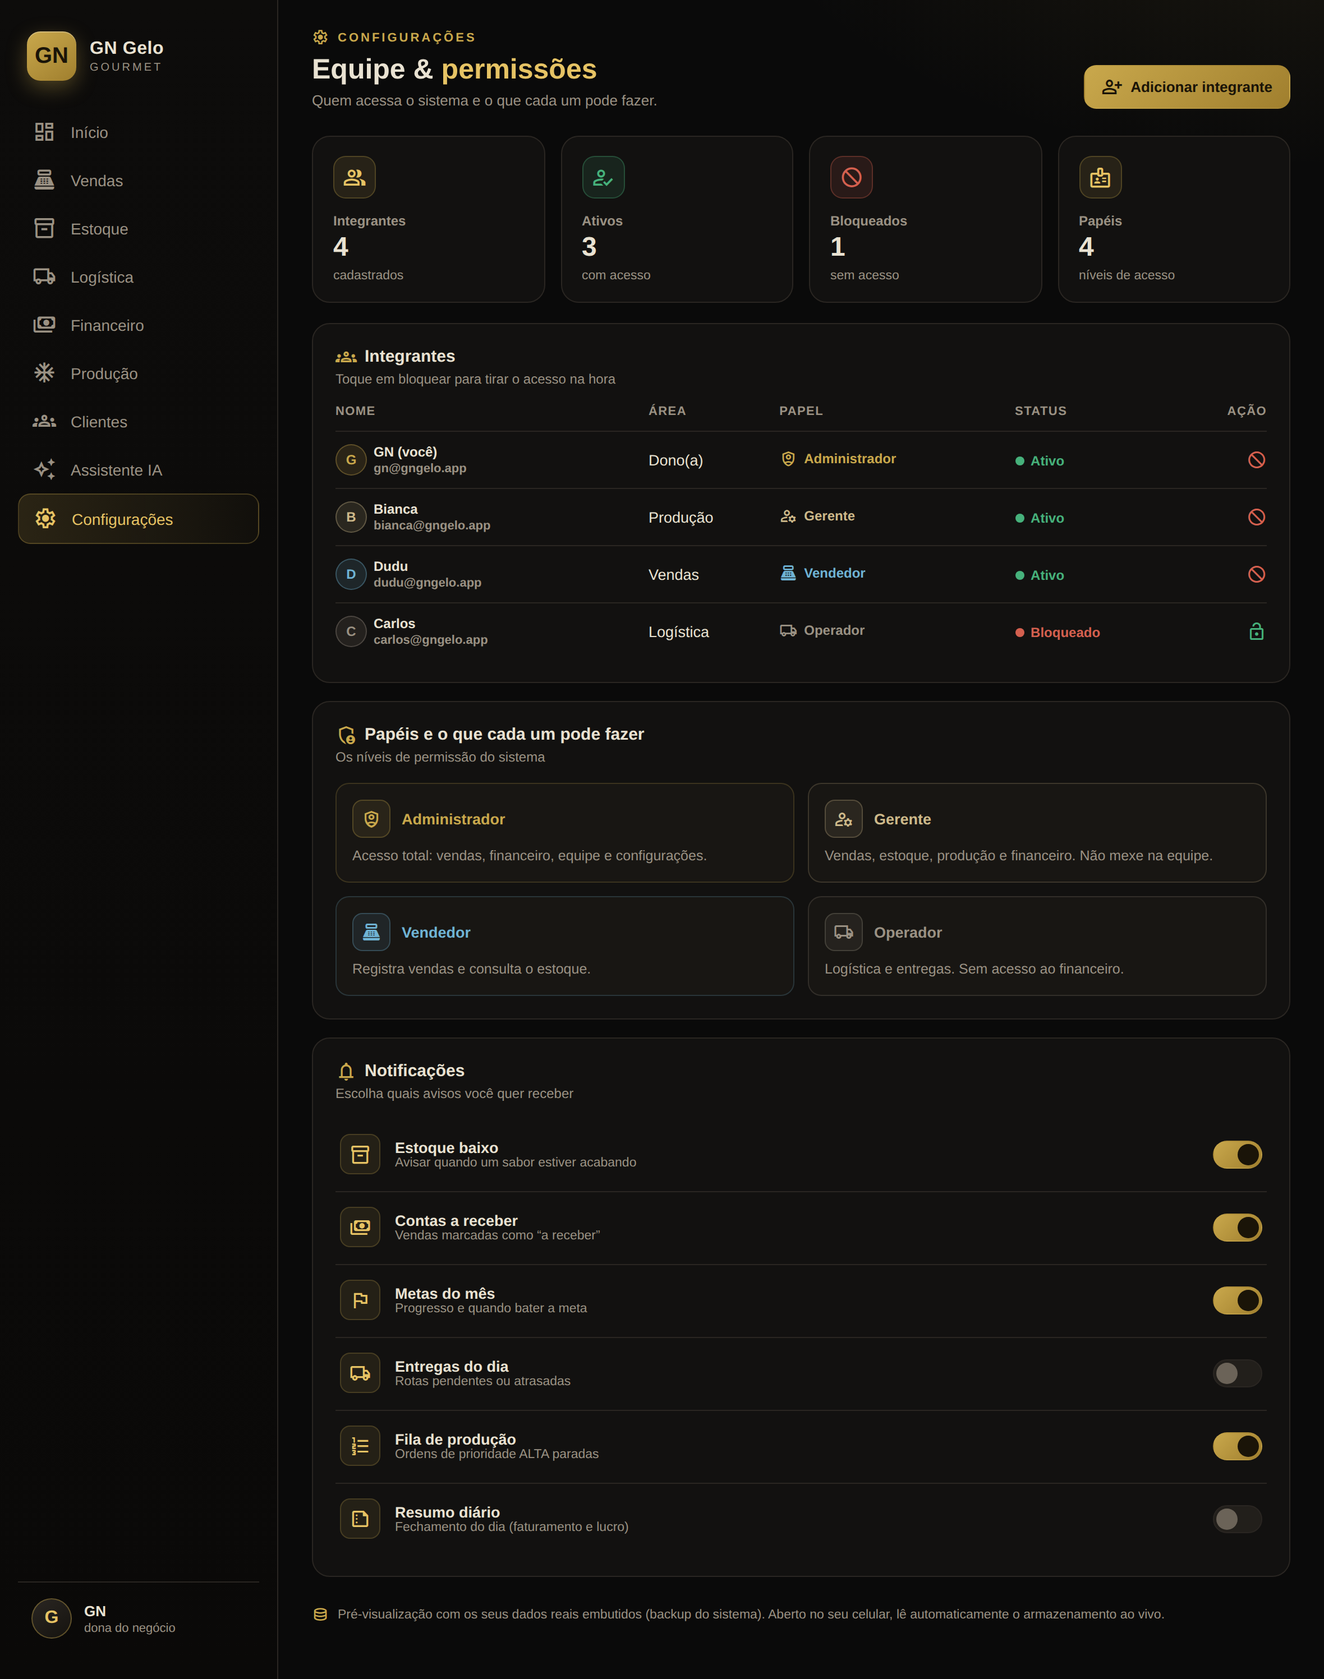
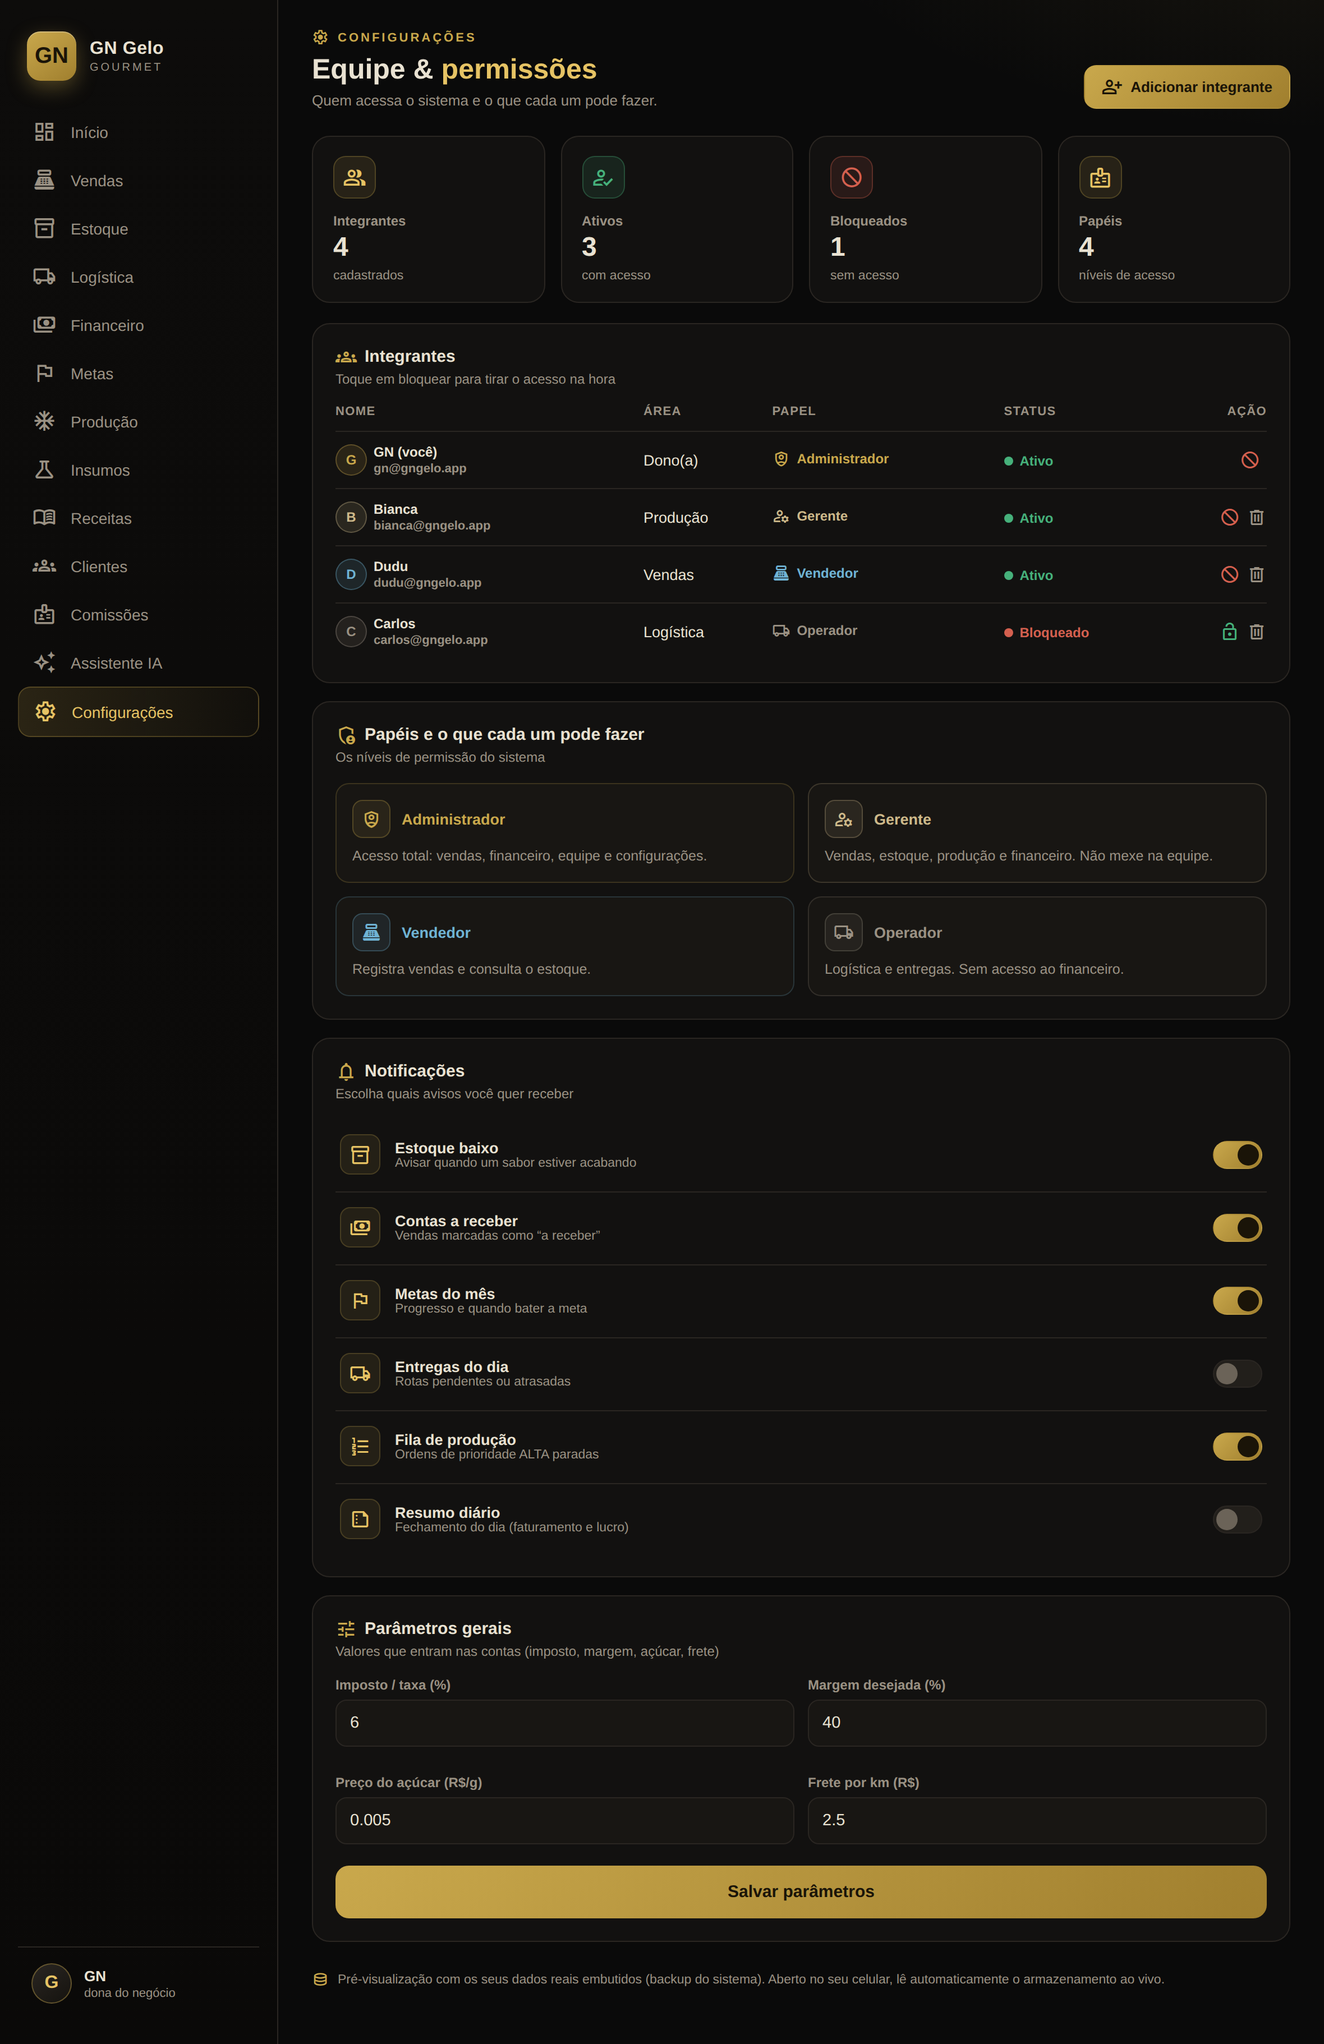
Bloco 1: custo real automatico + Parametros + Receitas
- Custo do gelo agora RECALCULA pelo preco dos insumos comprados + receita
  (nao mais fixo). Aplica em venda (cpv/lucro), producao, estoque (valor) e DRE.
- Tela Receitas: ingredientes por gelo editaveis + custo real ao vivo (quanto
  cada ingrediente pesa). Salva em gng_receitaPadrao.
- Parametros gerais (Configuracoes): imposto, margem, preco do acucar, frete/km.
  Salva em gng_params e entra nas contas na hora.
- Testado: mudar preco de insumo, acucar ou receita altera o custo em todo o app.
- Fonte regenerada (menu_book). HTML 132KB.

Claude-Session: https://claude.ai/code/session_01RocrFdSgqpqjfRy7x3VDmm

diff --git a/preview-dashboard-premium.html b/preview-dashboard-premium.html
@@ -10,7 +10,7 @@
 <!-- Mapa real (OpenStreetMap via Leaflet) — grátis. Precisa de internet; offline cai no mapa-reserva. -->
 <link rel="stylesheet" href="https://cdn.jsdelivr.net/npm/leaflet@1.9.4/dist/leaflet.css" />
 <script src="https://cdn.jsdelivr.net/npm/leaflet@1.9.4/dist/leaflet.js"></script>
[2 lines of base64/hex data omitted]
 <style>
   :root{
     --bg:#0A0A0A; --panel:#121110; --panel2:#181613; --line:#2a2622;
@@ -176,6 +176,7 @@
       <a data-view="metas"><span class="sym">flag</span> Metas</a>
       <a data-view="producao"><span class="sym">ac_unit</span> Produção</a>
       <a data-view="insumos"><span class="sym">science</span> Insumos</a>
+      <a data-view="receitas"><span class="sym">menu_book</span> Receitas</a>
       <a data-view="clientes"><span class="sym">groups</span> Clientes</a>
       <a data-view="comissoes"><span class="sym">badge</span> Comissões</a>
       <a data-view="ia"><span class="sym">auto_awesome</span> Assistente IA</a>
@@ -513,6 +514,36 @@
     </div>
    </div><!-- /view-comissoes -->
 
+   <!-- ============ TELA: RECEITAS ============ -->
+   <div class="view" id="view-receitas">
+    <div class="top">
+      <div>
+        <div class="eyebrow"><span class="sym" style="font-size:15px">menu_book</span> Receita</div>
+        <h1>Receita do gelo — custo <b id="rc-custo">—</b></h1>
+        <p>O quanto cada gelo consome. O custo recalcula sozinho pelo preço dos insumos.</p>
+      </div>
+    </div>
+    <div class="row2">
+      <div class="card">
+        <h3><span class="sym">science</span>Ingredientes por gelo saborizado</h3>
+        <div class="csub">Vale para todos os sabores (ajuste se mudar a receita)</div>
+        <div class="f-grid2" style="margin-top:10px">
+          <div class="f-row"><label>Base / Aroma (ml)</label><input type="number" step="0.1" class="f-in rc-in" id="rc-base" oninput="calcReceita()"></div>
+          <div class="f-row"><label>Glicose (g)</label><input type="number" step="0.1" class="f-in rc-in" id="rc-glicose" oninput="calcReceita()"></div>
+          <div class="f-row"><label>Açúcar (g)</label><input type="number" step="0.1" class="f-in rc-in" id="rc-acucar" oninput="calcReceita()"></div>
+          <div class="f-row"><label>Goma Xantana (g)</label><input type="number" step="0.01" class="f-in rc-in" id="rc-xantana" oninput="calcReceita()"></div>
+          <div class="f-row"><label>Embalagem (un)</label><input type="number" step="1" class="f-in rc-in" id="rc-embalagem" oninput="calcReceita()"></div>
+        </div>
+        <button class="btn-gold" style="margin-top:4px" onclick="salvarReceita()">Salvar receita</button>
+      </div>
+      <div class="card">
+        <h3><span class="sym">payments</span>Custo real (ao vivo)</h3>
+        <div class="csub">Quanto cada ingrediente pesa no custo</div>
+        <div id="rc-breakdown" style="margin-top:8px"></div>
+      </div>
+    </div>
+   </div><!-- /view-receitas -->
+
    <!-- ============ TELA: CLIENTES ============ -->
    <div class="view" id="view-clientes">
     <div class="top">
@@ -575,6 +606,17 @@
       <h3><span class="sym">notifications</span>Notificações</h3>
       <div class="csub">Escolha quais avisos você quer receber</div>
       <div id="cf-notif" style="display:flex;flex-direction:column;gap:2px;margin-top:4px"></div>
+    </div>
+    <div class="card" style="margin-top:16px">
+      <h3><span class="sym">tune</span>Parâmetros gerais</h3>
+      <div class="csub">Valores que entram nas contas (imposto, margem, açúcar, frete)</div>
+      <div class="f-grid2" style="margin-top:10px">
+        <div class="f-row"><label>Imposto / taxa (%)</label><input type="number" step="0.1" class="f-in" id="pa-imp"></div>
+        <div class="f-row"><label>Margem desejada (%)</label><input type="number" step="1" class="f-in" id="pa-marg"></div>
+        <div class="f-row"><label>Preço do açúcar (R$/g)</label><input type="number" step="0.001" class="f-in" id="pa-acucar"></div>
+        <div class="f-row"><label>Frete por km (R$)</label><input type="number" step="0.1" class="f-in" id="pa-fkm"></div>
+      </div>
+      <button class="btn-gold" style="margin-top:6px" onclick="salvarParams()">Salvar parâmetros</button>
     </div>
    </div><!-- /view-config -->
 
@@ -822,11 +864,20 @@ function getVendedores(){const v=get("vendedores",null);return (v&&v.length)?v:S
 function getOrdens(){const v=get("ordens",null);return (v&&v.length)?v:SEED.ordens;}
 function getLotes(){const v=get("lotesAndamento",null);return (v&&v.length)?v:SEED.lotesAndamento;}
 function fillVendedores(sel,val){const vs=getVendedores();sel.innerHTML='<option value="">Venda direta (sem comissão)</option>'+vs.map(v=>`<option value="${v.id}">${v.nome} (${v.com}%)</option>`).join("");if(val)sel.value=val;}
-// Quanto cada gelo saborizado consome de cada insumo (receita real); açúcar entra no custo base
-const RECEITA={"Base/Aroma":2,"Glicose":5,"Goma Xantana":0.08,"Embalagens":1};
 const INSUMOS_DEF={"Base/Aroma":"ml","Glicose":"g","Goma Xantana":"g","Embalagens":"un","Açúcar":"g"};
 const LIMITE_PIC=2500; // abaixo disso o insumo é "acabando"
-const CUSTO_UN=0.5151; // custo de produção por gelo saborizado (params reais)
+// ===== RECEITA + CUSTO REAL (recalcula pelo preço dos insumos) =====
+const RECEITA_PADRAO={base:2,glicose:5,acucar:4,xantana:0.08,embalagem:1}; // por gelo saborizado
+function getReceitaPadrao(){return Object.assign({},RECEITA_PADRAO,get("receitaPadrao",null)||{});}
+// Mapa insumo->qtd consumida por gelo (deriva da receita) — usado pra baixar insumo
+function recIns(){const r=getReceitaPadrao();return {"Base/Aroma":r.base,"Glicose":r.glicose,"Goma Xantana":r.xantana,"Embalagens":r.embalagem};}
+function custoInsumoUn(nome){const ie=getInsE();return (ie[nome]&&ie[nome].custoUnit)||0;}
+// Custo real de produzir 1 gelo: receita x preço atual dos insumos + açúcar (parâmetro)
+function custoSabor(sabor){const r=getReceitaPadrao(),P=PARAMS();
+  return r.base*custoInsumoUn("Base/Aroma")+r.glicose*custoInsumoUn("Glicose")+
+         r.xantana*custoInsumoUn("Goma Xantana")+r.embalagem*custoInsumoUn("Embalagens")+
+         r.acucar*(P.acucar||0);}
+function custoBase(){return custoSabor("_");} // custo padrão (receita compartilhada)
 
 const R=v=>"R$ "+(v||0).toLocaleString("pt-BR",{minimumFractionDigits:2,maximumFractionDigits:2});
 const R0=v=>"R$ "+Math.round(v||0).toLocaleString("pt-BR");
@@ -973,7 +1024,7 @@ function renderEstoque(){
   const arr=Object.entries(est).filter(([k,q])=>q>0).sort((a,b)=>b[1]-a[1]);
   const total=arr.reduce((a,[,q])=>a+q,0);
   T("es-tot",total.toLocaleString("pt-BR")); T("es-k-tot",total.toLocaleString("pt-BR"));
-  T("es-k-sab",arr.length); T("es-k-val",R0(total*CUSTO_UN));
+  T("es-k-sab",arr.length); T("es-k-val",R0(total*custoBase()));
   T("es-k-top",arr.length?SB[arr[0][0]]:"—"); T("es-k-topq",arr.length?arr[0][1].toLocaleString("pt-BR")+" un":"—");
   const max=arr.length?arr[0][1]:1;
   document.getElementById("es-bars").innerHTML=arr.map(([k,q])=>`
@@ -1277,15 +1328,32 @@ function renderConfig(){
       </div>
       <p style="margin:0;font-size:12.5px;color:var(--muted);line-height:1.45">${p.desc}</p>
     </div>`).join("");
+  // parâmetros gerais
+  const P=PARAMS();
+  if(document.getElementById("pa-imp")){
+    document.getElementById("pa-imp").value=P.imp;
+    document.getElementById("pa-marg").value=P.margem;
+    document.getElementById("pa-acucar").value=P.acucar;
+    document.getElementById("pa-fkm").value=P.fkm;
+  }
+}
+function salvarParams(){
+  const p=Object.assign({},get("params",null)||{},{
+    imp:+document.getElementById("pa-imp").value||0,
+    margem:+document.getElementById("pa-marg").value||0,
+    acucar:+document.getElementById("pa-acucar").value||0,
+    fkm:+document.getElementById("pa-fkm").value||0
+  });
+  set("params",p); rerenderAll(); alert("Parâmetros salvos. As contas já usam os novos valores.");
 }
 
 /* ===== REGISTRAR (venda/produção/gasto) — multi-itens, grava de verdade ===== */
-const PARAMS=()=>get("params",null)||{imp:6,com:0};
+const PARAMS=()=>Object.assign({imp:6,margem:40,acucar:0.005,fkm:2.5,com:0},get("params",null)||{});
 const SABORES_VENDA=Object.keys(SB).filter(k=>!k.startsWith("combo"));
 const hoje=()=>new Date().toISOString().slice(0,10);
 const sabOpts=()=>SABORES_VENDA.map(k=>`<option value="${k}">${SB[k]}</option>`).join("");
 function fecharModal(){document.querySelectorAll(".modal-bg").forEach(m=>m.style.display="none");}
-function rerenderAll(){render();renderVendas();renderEstoque();renderLogistica();renderFinanceiro();renderMetas();renderProducao();renderInsumos();renderClientes();renderComissoes();renderIA();renderConfig();}
+function rerenderAll(){render();renderVendas();renderEstoque();renderLogistica();renderFinanceiro();renderMetas();renderProducao();renderInsumos();renderReceitas();renderClientes();renderComissoes();renderIA();renderConfig();}
 
 /* ---- VENDA ---- */
 var EDIT_V=null,EDIT_P=null,EDIT_G=null,EDIT_E=null;
@@ -1329,7 +1397,7 @@ function calcV(){
   let bruto=0,lucro=0,n=0;
   document.querySelectorAll("#v-linhas .linha").forEach(l=>{
     const q=+l.querySelector(".v-qtd").value||0,p=+l.querySelector(".v-preco").value||0;
-    const b=q*p,imp=b*((PARAMS().imp||0)/100),liq=b-imp,cpv=q*CUSTO_UN; bruto+=b; lucro+=liq-cpv; n++;
+    const b=q*p,imp=b*((PARAMS().imp||0)/100),liq=b-imp,cpv=q*custoBase(); bruto+=b; lucro+=liq-cpv; n++;
   });
   document.getElementById("v-total").textContent="Total "+R(bruto);
   document.getElementById("v-lucro").textContent=R(lucro);
@@ -1345,7 +1413,7 @@ function salvarVenda(){
     const idx=vendas.findIndex(x=>x.id==EDIT_V); if(idx<0){EDIT_V=null;fecharModal();return;}
     const old=vendas[idx], est=get("estoque",null)||Object.assign({},SEED.estoque);
     est[old.produto]=(est[old.produto]||0)+(old.qtd||0); // reverte o antigo
-    const b=q*p,imp=b*((PARAMS().imp||0)/100),liq=b-imp,cpv=q*CUSTO_UN,lucro=liq-cpv;
+    const b=q*p,imp=b*((PARAMS().imp||0)/100),liq=b-imp,cpv=q*custoSabor(sabor),lucro=liq-cpv;
     est[sabor]=(est[sabor]||0)-q; // aplica o novo
     vendas[idx]={...old,data,cliente,pagto,vendedor,produto:sabor,qtd:q,preco:p,bruto:b,imp,liq,cpv,lucro};
     set("vendas",vendas); set("estoque",est); EDIT_V=null; fecharModal(); rerenderAll(); show("vendas"); return;
@@ -1357,7 +1425,7 @@ function salvarVenda(){
   linhas.forEach((l,i)=>{
     const sabor=l.querySelector(".v-sab").value,q=+l.querySelector(".v-qtd").value||0,p=+l.querySelector(".v-preco").value||0;
     if(q<=0)return;
-    const b=q*p,imp=b*((PARAMS().imp||0)/100),liq=b-imp,cpv=q*CUSTO_UN,lucro=liq-cpv;
+    const b=q*p,imp=b*((PARAMS().imp||0)/100),liq=b-imp,cpv=q*custoSabor(sabor),lucro=liq-cpv;
     vendas.push({id:Date.now()+i,pedido,data,cliente,vendedor,produto:sabor,qtd:q,preco:p,bruto:b,imp,liq,cpv,lucro,pagto,recebido:true});
     est[sabor]=(est[sabor]||0)-q; add++;
   });
@@ -1397,7 +1465,7 @@ function addLinhaP(){
 function calcP(){
   let tot=0; document.querySelectorAll("#p-linhas .linha").forEach(l=>tot+=(+l.querySelector(".p-qtd").value||0));
   document.getElementById("p-tot").textContent=tot.toLocaleString("pt-BR")+" gelos saborizados";
-  document.getElementById("p-custo").textContent=R(tot*CUSTO_UN);
+  document.getElementById("p-custo").textContent=R(tot*custoBase());
 }
 function salvarProducao(){
   const data=document.getElementById("p-data").value,resp=document.getElementById("p-resp").value||"—";
@@ -1411,11 +1479,11 @@ function salvarProducao(){
       ie=get("insumoEst",null)||JSON.parse(JSON.stringify(SEED.insumoEst));
     // reverte o antigo: tira do estoque e devolve insumo
     est[old.sabor]=Math.max(0,(est[old.sabor]||0)-(old.qtd||0));
-    Object.keys(RECEITA).forEach(n=>{if(ie[n])ie[n]={...ie[n],qtd:(ie[n].qtd||0)+(old.qtd||0)*RECEITA[n]};});
+    Object.keys(recIns()).forEach(n=>{if(ie[n])ie[n]={...ie[n],qtd:(ie[n].qtd||0)+(old.qtd||0)*recIns()[n]};});
     // aplica o novo
     est[sabor]=(est[sabor]||0)+q;
-    Object.keys(RECEITA).forEach(n=>{if(ie[n])ie[n]={...ie[n],qtd:Math.max(0,(ie[n].qtd||0)-q*RECEITA[n])};});
-    prod[idx]={...old,data,sabor,qtd:q,custoPorUnid:CUSTO_UN,custoTotal:q*CUSTO_UN,resp};
+    Object.keys(recIns()).forEach(n=>{if(ie[n])ie[n]={...ie[n],qtd:Math.max(0,(ie[n].qtd||0)-q*recIns()[n])};});
+    prod[idx]={...old,data,sabor,qtd:q,custoPorUnid:custoSabor(sabor),custoTotal:q*custoSabor(sabor),resp};
     set("producoes",prod); set("estoque",est); set("insumoEst",ie); EDIT_P=null; fecharModal(); rerenderAll(); show("producao"); return;
   }
   const linhas=[...document.querySelectorAll("#p-linhas .linha")];
@@ -1426,12 +1494,12 @@ function salvarProducao(){
   linhas.forEach((l,i)=>{
     const sabor=l.querySelector(".p-sab").value,q=+l.querySelector(".p-qtd").value||0;
     if(q<=0)return;
-    prod.push({id:Date.now()+i,data,sabor,qtd:q,custoPorUnid:CUSTO_UN,custoTotal:q*CUSTO_UN,resp});
+    prod.push({id:Date.now()+i,data,sabor,qtd:q,custoPorUnid:custoSabor(sabor),custoTotal:q*custoSabor(sabor),resp});
     est[sabor]=(est[sabor]||0)+q; totalQtd+=q; add++;
   });
   if(!add){alert("Adicione ao menos um sabor com quantidade.");return;}
   // regra 7: baixa os insumos consumidos pela receita
-  Object.keys(RECEITA).forEach(nome=>{ if(ie[nome]) ie[nome]={...ie[nome],qtd:Math.max(0,(ie[nome].qtd||0)-totalQtd*RECEITA[nome])}; });
+  Object.keys(recIns()).forEach(nome=>{ if(ie[nome]) ie[nome]={...ie[nome],qtd:Math.max(0,(ie[nome].qtd||0)-totalQtd*recIns()[nome])}; });
   set("producoes",prod); set("estoque",est); set("insumoEst",ie); fecharModal(); rerenderAll(); show("producao");
 }
 
@@ -1497,18 +1565,18 @@ function salvarGasto(){
 /* ===== TELA INSUMOS ===== */
 function rendeGelos(ie){ // quantos gelos saborizados dá pra fazer com o insumo limitante
   let min=Infinity;
-  Object.keys(RECEITA).forEach(nome=>{const q=(ie[nome]&&ie[nome].qtd)||0; min=Math.min(min,q/RECEITA[nome]);});
+  Object.keys(recIns()).forEach(nome=>{const q=(ie[nome]&&ie[nome].qtd)||0; min=Math.min(min,q/recIns()[nome]);});
   return isFinite(min)?Math.floor(min):0;
 }
 function renderInsumos(){
   const ie=getInsE();
   const nomes=Object.keys(ie);
   const valor=nomes.reduce((a,n)=>a+(ie[n].qtd||0)*(ie[n].custoUnit||0),0);
-  const baixo=nomes.filter(n=>RECEITA[n] && (ie[n].qtd||0)/RECEITA[n] < LIMITE_PIC);
+  const baixo=nomes.filter(n=>recIns()[n] && (ie[n].qtd||0)/recIns()[n] < LIMITE_PIC);
   T("in-n",nomes.length); T("in-val",R0(valor)); T("in-baixo",baixo.length);
   T("in-rende",rendeGelos(ie).toLocaleString("pt-BR"));
   document.getElementById("in-tab").innerHTML=nomes.map(n=>{
-    const i=ie[n], rende=RECEITA[n]?(i.qtd||0)/RECEITA[n]:null;
+    const i=ie[n], rende=recIns()[n]?(i.qtd||0)/recIns()[n]:null;
     const crit=rende!=null&&rende<LIMITE_PIC;
     return `<tr>
       <td><span class="tag"><span class="sym" style="color:var(--gold-soft);font-size:17px">science</span><b>${n}</b></span></td>
@@ -1574,7 +1642,7 @@ function delProducao(id){
   const est=get("estoque",null)||Object.assign({},SEED.estoque);
   est[p.sabor]=Math.max(0,(est[p.sabor]||0)-(p.qtd||0)); // tira os gelos produzidos
   const ie=get("insumoEst",null)||JSON.parse(JSON.stringify(SEED.insumoEst));
-  Object.keys(RECEITA).forEach(n=>{if(ie[n])ie[n]={...ie[n],qtd:(ie[n].qtd||0)+(p.qtd||0)*RECEITA[n]};}); // devolve insumo (regra 7)
+  Object.keys(recIns()).forEach(n=>{if(ie[n])ie[n]={...ie[n],qtd:(ie[n].qtd||0)+(p.qtd||0)*recIns()[n]};}); // devolve insumo (regra 7)
   set("producoes",prod.filter(x=>x.id!=id)); set("estoque",est); set("insumoEst",ie); rerenderAll();
 }
 function delGasto(id){
@@ -1649,6 +1717,45 @@ function delEntrega(id){
   if(!confirm("Apagar esta entrega?"))return;
   const ent=get("entregas",null)||SEED.entregas.slice();
   set("entregas",ent.filter(x=>x.id!==id)); rerenderAll();
+}
+
+/* ===== TELA RECEITAS ===== */
+function renderReceitas(){
+  const r=getReceitaPadrao();
+  if(document.getElementById("rc-base")){
+    document.getElementById("rc-base").value=r.base;
+    document.getElementById("rc-glicose").value=r.glicose;
+    document.getElementById("rc-acucar").value=r.acucar;
+    document.getElementById("rc-xantana").value=r.xantana;
+    document.getElementById("rc-embalagem").value=r.embalagem;
+  }
+  T("rc-custo",R(custoBase()));
+  calcReceita();
+}
+function calcReceita(){
+  if(!document.getElementById("rc-base"))return;
+  const r={base:+rcV("rc-base"),glicose:+rcV("rc-glicose"),acucar:+rcV("rc-acucar"),xantana:+rcV("rc-xantana"),embalagem:+rcV("rc-embalagem")};
+  const P=PARAMS();
+  const itens=[
+    ["Base / Aroma",r.base+" ml",r.base*custoInsumoUn("Base/Aroma")],
+    ["Glicose",r.glicose+" g",r.glicose*custoInsumoUn("Glicose")],
+    ["Açúcar",r.acucar+" g",r.acucar*(P.acucar||0)],
+    ["Goma Xantana",r.xantana+" g",r.xantana*custoInsumoUn("Goma Xantana")],
+    ["Embalagem",r.embalagem+" un",r.embalagem*custoInsumoUn("Embalagens")]
+  ];
+  const tot=itens.reduce((a,i)=>a+i[2],0);
+  document.getElementById("rc-breakdown").innerHTML=itens.map(([n,q,v])=>`
+    <div style="display:flex;justify-content:space-between;padding:9px 0;border-top:1px solid var(--line);font-size:13px">
+      <span>${n} <span style="color:var(--muted);font-size:11.5px">· ${q}</span></span>
+      <span class="money">${R(v)}</span></div>`).join("")+
+    `<div style="display:flex;justify-content:space-between;padding:11px 0 2px;border-top:2px solid rgba(201,168,76,.4);font-weight:800;font-size:15px;color:var(--gold-soft)">
+      <span>Custo por gelo</span><span>${R(tot)}</span></div>`;
+  T("rc-custo",R(tot));
+}
+function rcV(id){return document.getElementById(id).value||0;}
+function salvarReceita(){
+  const r={base:+rcV("rc-base"),glicose:+rcV("rc-glicose"),acucar:+rcV("rc-acucar"),xantana:+rcV("rc-xantana"),embalagem:+rcV("rc-embalagem")};
+  set("receitaPadrao",r); rerenderAll(); alert("Receita salva. O custo real foi atualizado em todo o sistema.");
 }
 
 /* ===== TELA COMISSÕES ===== */
@@ -1760,7 +1867,7 @@ function show(view){
 document.querySelectorAll("nav a").forEach(a=>a.addEventListener("click",()=>show(a.dataset.view)));
 
 /* Render inicial de todas as telas */
-render(); renderVendas(); renderEstoque(); renderLogistica(); renderFinanceiro(); renderMetas(); renderProducao(); renderInsumos(); renderClientes(); renderComissoes(); renderIA(); renderConfig();
+render(); renderVendas(); renderEstoque(); renderLogistica(); renderFinanceiro(); renderMetas(); renderProducao(); renderInsumos(); renderReceitas(); renderClientes(); renderComissoes(); renderIA(); renderConfig();
 const _qv=new URLSearchParams(location.search).get("v");
 if(_qv) show(_qv);
 ensureDepot(); // busca o endereço do depósito no aparelho (1ª vez)
